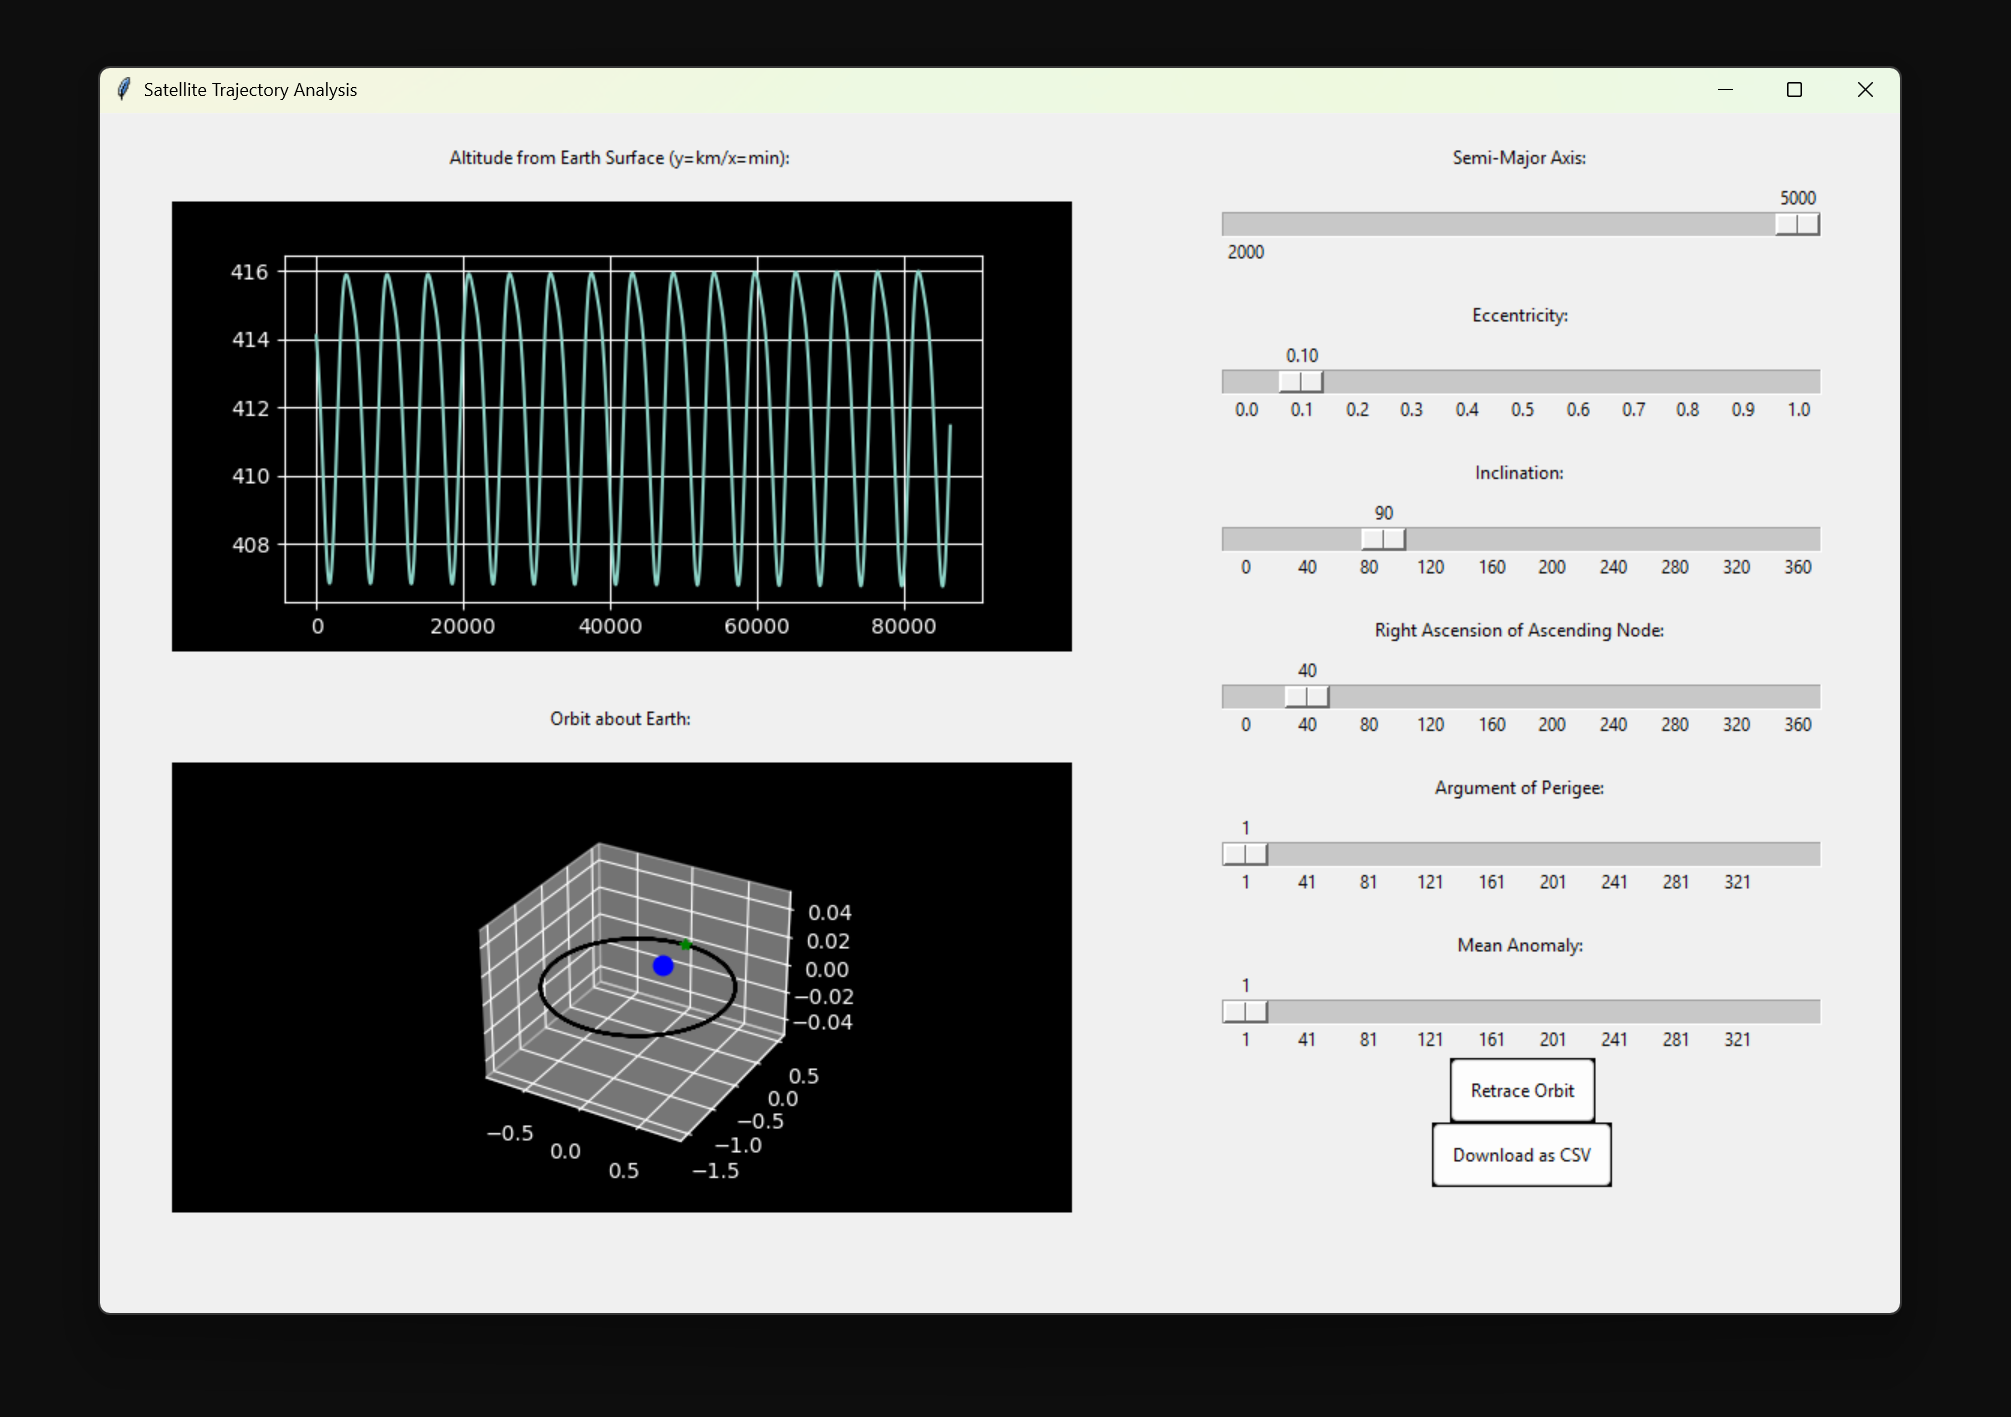
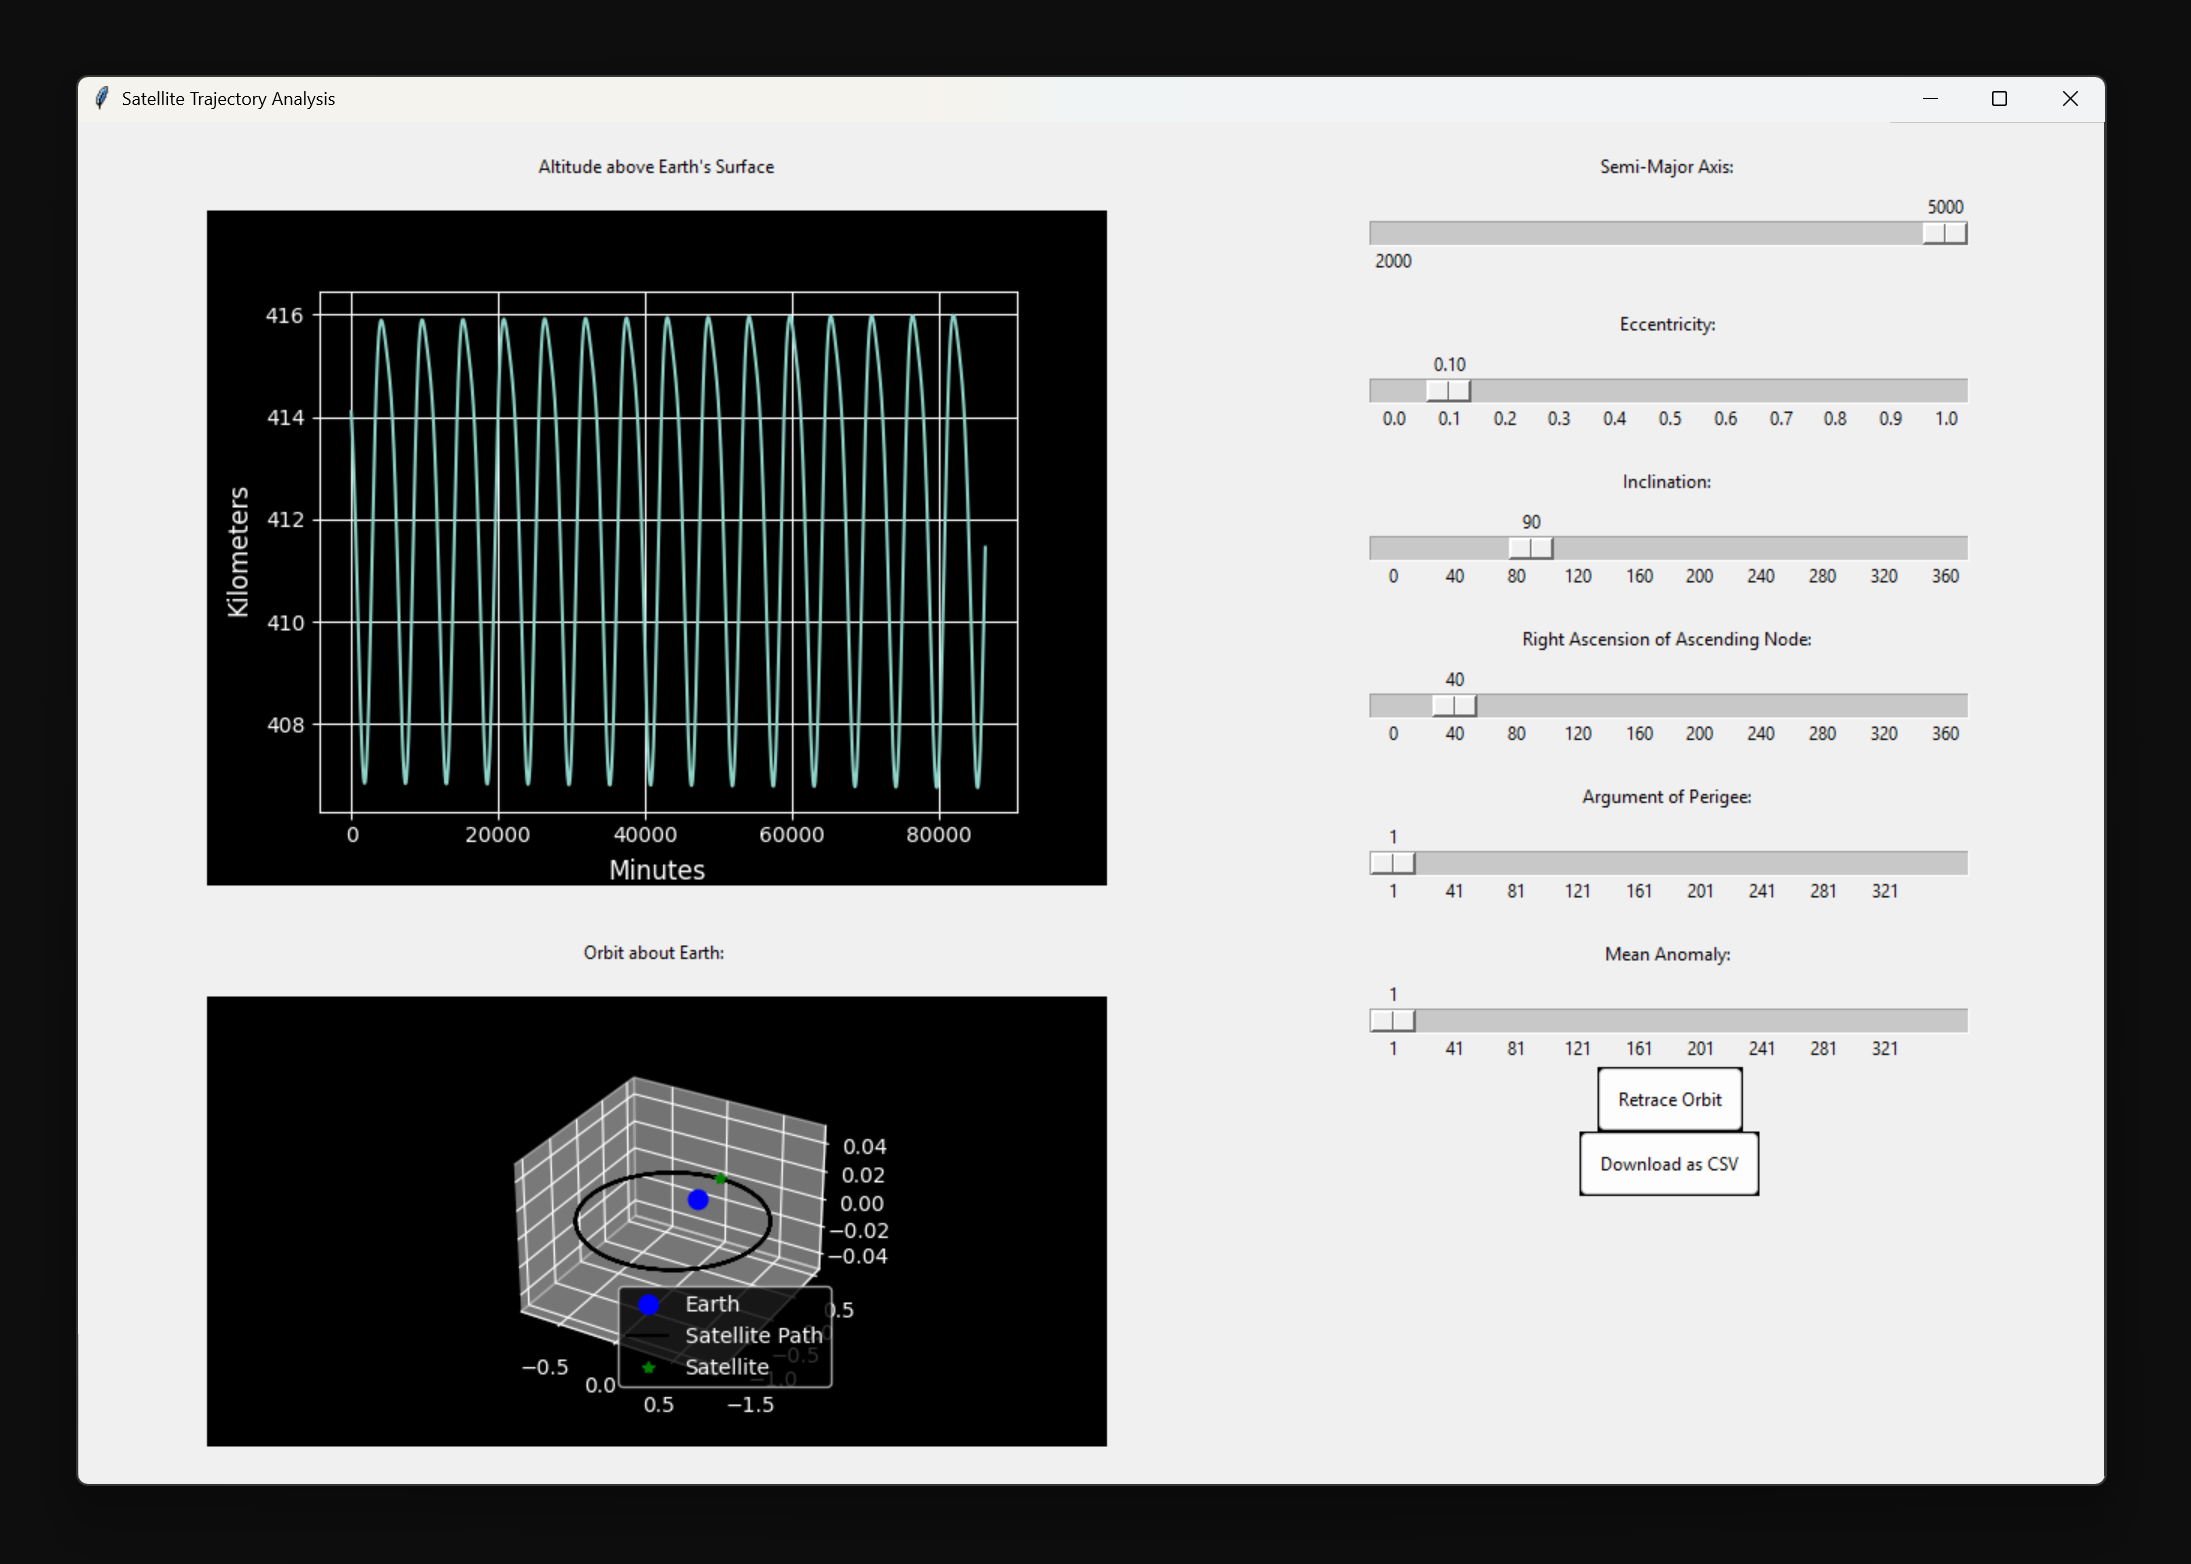
added legend to satellite graph and updated readme preview image

diff --git a/finalProject/satelliteGUI.py b/finalProject/satelliteGUI.py
@@ -167,6 +167,8 @@ def visualize_3d_orbit(a, v, e, o, i, w, figure):
     plot2.plot(pos[::, 1], pos[::, 0], 'k-', label="Satellite Trajectory")
     plot2.plot(pos[0, 1], pos[0, 0], 'g*', label="Periapsis")
 
+    plot2.legend(["Earth", "Satellite Path", "Satellite"], loc="lower right")
+
     # Draws the plot onto the canvas
     canvas2.draw() 
 
